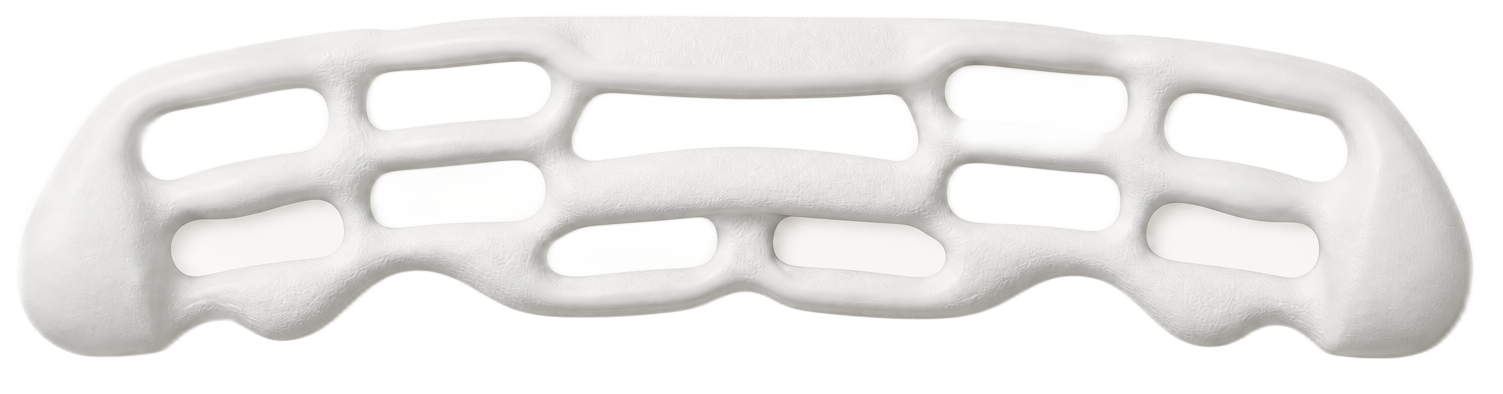
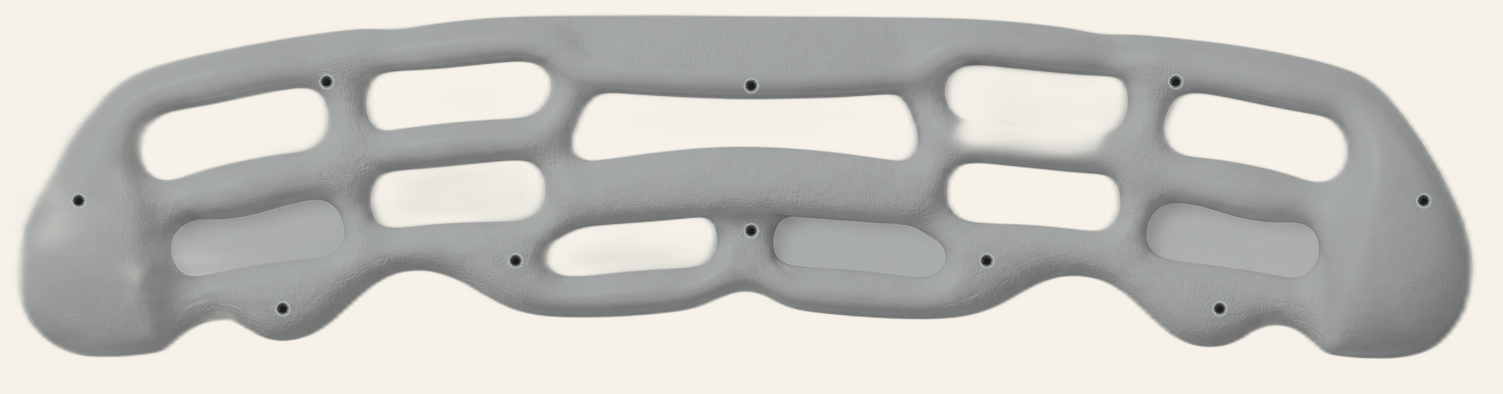
Repair Escape Beta 22 presentation

diff --git a/docs/source-audits/2026-08-30-hangboard-presentation-remediation.md b/docs/source-audits/2026-08-30-hangboard-presentation-remediation.md
@@ -671,3 +671,64 @@ of the 16 presentation-scoped path checks was clicked individually and became
 the sole selected hit target. The inverted bounds were the expected 180-degree
 counterparts of their canonical paths. Final-inventory package validation and
 package status completed successfully with 61 packages and no drafts.
+
+## Escape Beta Board presentation repair (2026-08-31)
+
+Escape's current product page and gallery were freshly reopened on 2026-08-31,
+along with the independent StrengthClimbing owner review/front image and Power
+Company Climbing's original-owner review. The official page publishes the
+current 26 x 6 x 2 in molded-resin Beta Board in Gray 1810 and identifies its
+dual texture. The independent photos confirm the same 11-opening topology,
+ten recessed mounting bores, plastic/resin construction, and rough contact
+areas transitioning to smooth glossy margins.
+
+Fresh evidence:
+
+- Escape Climbing product page:
+  <https://escapeclimbing.com/products/ec72100>
+- Escape official straight-on red and gray publication images:
+  <https://escapeclimbing.com/cdn/shop/products/2020_Website_ProductImage_BetaBoardListing_01-02.jpg?v=1700454580>
+  and
+  <https://escapeclimbing.com/cdn/shop/products/2020_Website_ProductImage_BetaBoardListing_04-02.jpg?v=1700454580>
+- StrengthClimbing owner review and straight-on hold-layout photo:
+  <https://strengthclimbing.com/beta-board-from-escape-climbing-hangboard-review/>
+- Power Company Climbing owner review/photos:
+  <https://www.powercompanyclimbing.com/blog/2011/03/review-v512-hangboard-from-detroit-rock.html>
+
+The package declares exactly one presentation, `primary`, and the repaired
+asset remains an independently head-on 1503 x 394 view. Its silhouette,
+aspect, shadows, alpha-derived edge coverage, and all 11 physical hold
+openings are unchanged. Ten source-backed recessed mounting bores were drawn
+at manually reviewed top-origin pixel centers: upper `(327,82)`,
+`(751.5,86)`, `(1176,82)`; outer-side `(79,201)`, `(1424,201)`; and
+lower/center `(283,309)`, `(516,261)`, `(751.5,231)`, `(987,261)`,
+`(1220,309)`. The accepted bore outer/core radii are 8.8/3.3 px. The symmetric
+positions reflect the symmetric molded product; no image detection,
+registration, mask, contour, crop, resample, warp, or edge movement was used.
+
+The accepted gray-resin transform is the monotonic luminance mapping
+`0.12 + 0.58 * luminance^1.50`, tinted by `(0.98, 1.00, 0.99)` and composited
+through the source's unchanged alpha coverage onto `#F6F2EA`. It preserves
+the existing high-frequency gritty contact texture, recessed shadows, and
+specular rim highlights without blur, yielding the official rough-contact /
+glossy-margin dual finish. No branding was added: the current official gray
+photo resolves a subtle molded mark, but the independent straight-on image
+does not establish it clearly enough to justify inventing pixels.
+
[1 lines of base64/hex data omitted]
+was rejected as too pale to read as published gray resin. Candidate 2 was
+accepted. The asset changed from
[2 lines of base64/hex data omitted]
+both are 1503 x 394 PNGs. `board.json` remains byte-identical at
[1 lines of base64/hex data omitted]
+
+Workbench rendered the single presentation with all 22 canonical geometry
+pieces and hold-ID labels aligned to their unchanged physical openings; the
+same byte-identical paths remain the hit-testing source of truth. The repaired
+image therefore passes the one-presentation/all-positions requirement,
+head-on view, gray plastic/resin material, published 11-opening/10-bore
+topology, and catalog smoothing/background checks. Final-inventory validation
+and package status passed with 61 packages and no drafts. This deterministic
+recolor/manual-bore repair is the user-approved exception to image generation;
+the schema-2 machine manifest is intentionally unchanged in this bounded pass.
